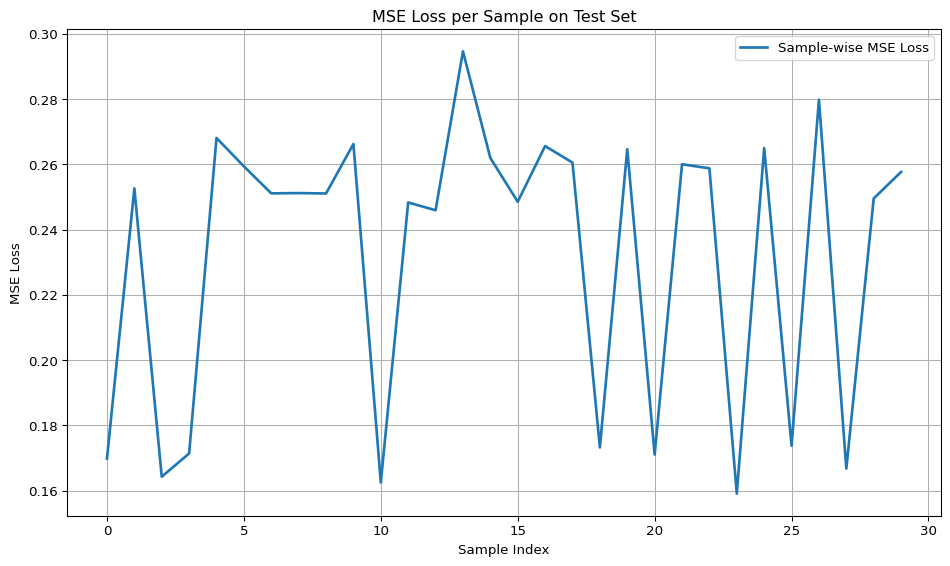
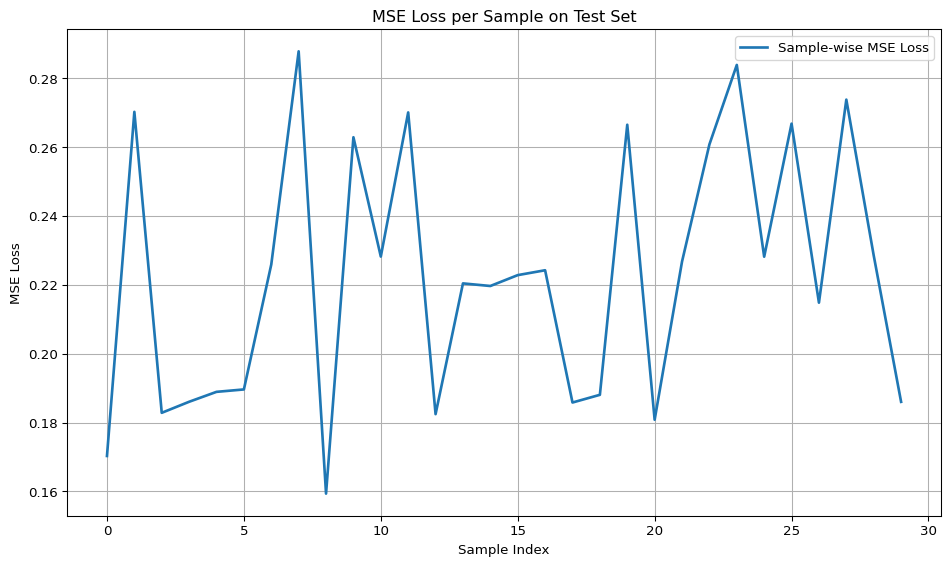
Built site for gh-pages

diff --git a/notebooks/10-Training-pipeline.html b/notebooks/10-Training-pipeline.html
@@ -513,7 +513,7 @@ pre > code.sourceCode > span > a:first-child::before { text-decoration: underlin
 <span id="cb5-54"><a href="#cb5-54" aria-hidden="true" tabindex="-1"></a>    plt.show()</span></code><button title="Copy to Clipboard" class="code-copy-button"><i class="bi"></i></button></pre></div>
 <div class="cell-output cell-output-stdout">
 <pre><code>
-Average MSE loss on test set (30 samples): 0.2295</code></pre>
+Average MSE loss on test set (30 samples): 0.2424</code></pre>
 </div>
 <div class="cell-output cell-output-display">
 <div>
@@ -603,16 +603,16 @@ Average MSE loss on test set (30 samples): 0.2295</code></pre>
 <span id="cb9-50"><a href="#cb9-50" aria-hidden="true" tabindex="-1"></a>plt.grid(<span class="va">True</span>)</span>
 <span id="cb9-51"><a href="#cb9-51" aria-hidden="true" tabindex="-1"></a>plt.show()</span></code><button title="Copy to Clipboard" class="code-copy-button"><i class="bi"></i></button></pre></div>
 <div class="cell-output cell-output-stdout">
-<pre><code>Epoch [10/100], Train Loss: 0.1890, Test Loss: 0.1858
-Epoch [20/100], Train Loss: 0.1399, Test Loss: 0.1348
-Epoch [30/100], Train Loss: 0.1142, Test Loss: 0.1063
-Epoch [40/100], Train Loss: 0.0978, Test Loss: 0.0880
-Epoch [50/100], Train Loss: 0.0847, Test Loss: 0.0723
-Epoch [60/100], Train Loss: 0.0729, Test Loss: 0.0589
-Epoch [70/100], Train Loss: 0.0635, Test Loss: 0.0481
-Epoch [80/100], Train Loss: 0.0554, Test Loss: 0.0398
-Epoch [90/100], Train Loss: 0.0481, Test Loss: 0.0331
-Epoch [100/100], Train Loss: 0.0414, Test Loss: 0.0278</code></pre>
+<pre><code>Epoch [10/100], Train Loss: 0.2157, Test Loss: 0.2120
+Epoch [20/100], Train Loss: 0.1825, Test Loss: 0.1769
+Epoch [30/100], Train Loss: 0.1426, Test Loss: 0.1349
+Epoch [40/100], Train Loss: 0.1169, Test Loss: 0.1078
+Epoch [50/100], Train Loss: 0.1007, Test Loss: 0.0910
+Epoch [60/100], Train Loss: 0.0877, Test Loss: 0.0773
+Epoch [70/100], Train Loss: 0.0755, Test Loss: 0.0646
+Epoch [80/100], Train Loss: 0.0653, Test Loss: 0.0534
+Epoch [90/100], Train Loss: 0.0567, Test Loss: 0.0440
+Epoch [100/100], Train Loss: 0.0495, Test Loss: 0.0366</code></pre>
 </div>
 <div class="cell-output cell-output-display">
 <div>

diff --git a/notebooks/05-Data-pipeline.html b/notebooks/05-Data-pipeline.html
@@ -384,7 +384,7 @@ Feature names: ['sepal length (cm)', 'sepal width (cm)', 'petal length (cm)', 'p
 <span id="cb3-3"><a href="#cb3-3" aria-hidden="true" tabindex="-1"></a></span>
 <span id="cb3-4"><a href="#cb3-4" aria-hidden="true" tabindex="-1"></a><span class="co"># Pair plot to visualize relationships between features</span></span>
 <span id="cb3-5"><a href="#cb3-5" aria-hidden="true" tabindex="-1"></a>sns.pairplot(iris_df, hue<span class="op">=</span><span class="st">'species'</span>, markers<span class="op">=</span>[<span class="st">"o"</span>, <span class="st">"s"</span>, <span class="st">"D"</span>], palette<span class="op">=</span><span class="st">"Set2"</span>)</span>
-<span id="cb3-6"><a href="#cb3-6" aria-hidden="true" tabindex="-1"></a>plt.suptitle(<span class="st">'Pair Plot of Iris Dataset'</span>, y<span class="op">=</span><span class="fl">1.02</span>)</span>
+<span id="cb3-6"><a href="#cb3-6" aria-hidden="true" tabindex="-1"></a>plt.suptitle(<span class="st">'Pair Plot of Iris Dataset'</span>, y<span class="op">=</span><span class="fl">1.02</span>) <span class="co"># Adjust title position</span></span>
 <span id="cb3-7"><a href="#cb3-7" aria-hidden="true" tabindex="-1"></a>plt.show()</span>
 <span id="cb3-8"><a href="#cb3-8" aria-hidden="true" tabindex="-1"></a></span>
 <span id="cb3-9"><a href="#cb3-9" aria-hidden="true" tabindex="-1"></a><span class="co"># check the correlation matrix of the features</span></span>

diff --git a/notebooks/06-Classes-and-perceptron.html b/notebooks/06-Classes-and-perceptron.html
@@ -423,7 +423,7 @@ pre > code.sourceCode > span > a:first-child::before { text-decoration: underlin
 <span id="cb3-18"><a href="#cb3-18" aria-hidden="true" tabindex="-1"></a>output <span class="op">=</span> my_net(sample_input)</span>
 <span id="cb3-19"><a href="#cb3-19" aria-hidden="true" tabindex="-1"></a><span class="bu">print</span>(<span class="st">"SimpleNet output:"</span>, output)</span></code><button title="Copy to Clipboard" class="code-copy-button"><i class="bi"></i></button></pre></div>
 <div class="cell-output cell-output-stdout">
-<pre><code>SimpleNet output: tensor([ 0.1857, -0.4621], grad_fn=&lt;ViewBackward0&gt;)</code></pre>
+<pre><code>SimpleNet output: tensor([0.2984, 0.3166], grad_fn=&lt;ViewBackward0&gt;)</code></pre>
 </div>
 </div>
 

diff --git a/notebooks/07-Multi-layer-perceptron.html b/notebooks/07-Multi-layer-perceptron.html
@@ -705,7 +705,7 @@ window.Quarto = {
 <span id="cb7-54"><a href="#cb7-54" aria-hidden="true" tabindex="-1"></a>    plt.show()</span></code><button title="Copy to Clipboard" class="code-copy-button"><i class="bi"></i></button></pre></div>
 <div class="cell-output cell-output-stdout">
 <pre><code>
-Average MSE loss on test set (30 samples): 0.2324</code></pre>
+Average MSE loss on test set (30 samples): 0.2228</code></pre>
 </div>
 <div class="cell-output cell-output-display">
 <div>

diff --git a/notebooks/04-PyTorch-and-tensors.html b/notebooks/04-PyTorch-and-tensors.html
@@ -353,8 +353,8 @@ tensor([[1, 2, 3],
         [0., 0., 0., 0.]]) 
  tensor([[1., 1., 1.],
         [1., 1., 1.]]) 
- tensor([[0.4773, 0.1660],
-        [0.0930, 0.6489]])</code></pre>
+ tensor([[0.0095, 0.1708],
+        [0.7122, 0.3498]])</code></pre>
 </div>
 </div>
 <div id="4" class="cell" data-execution_count="3">
